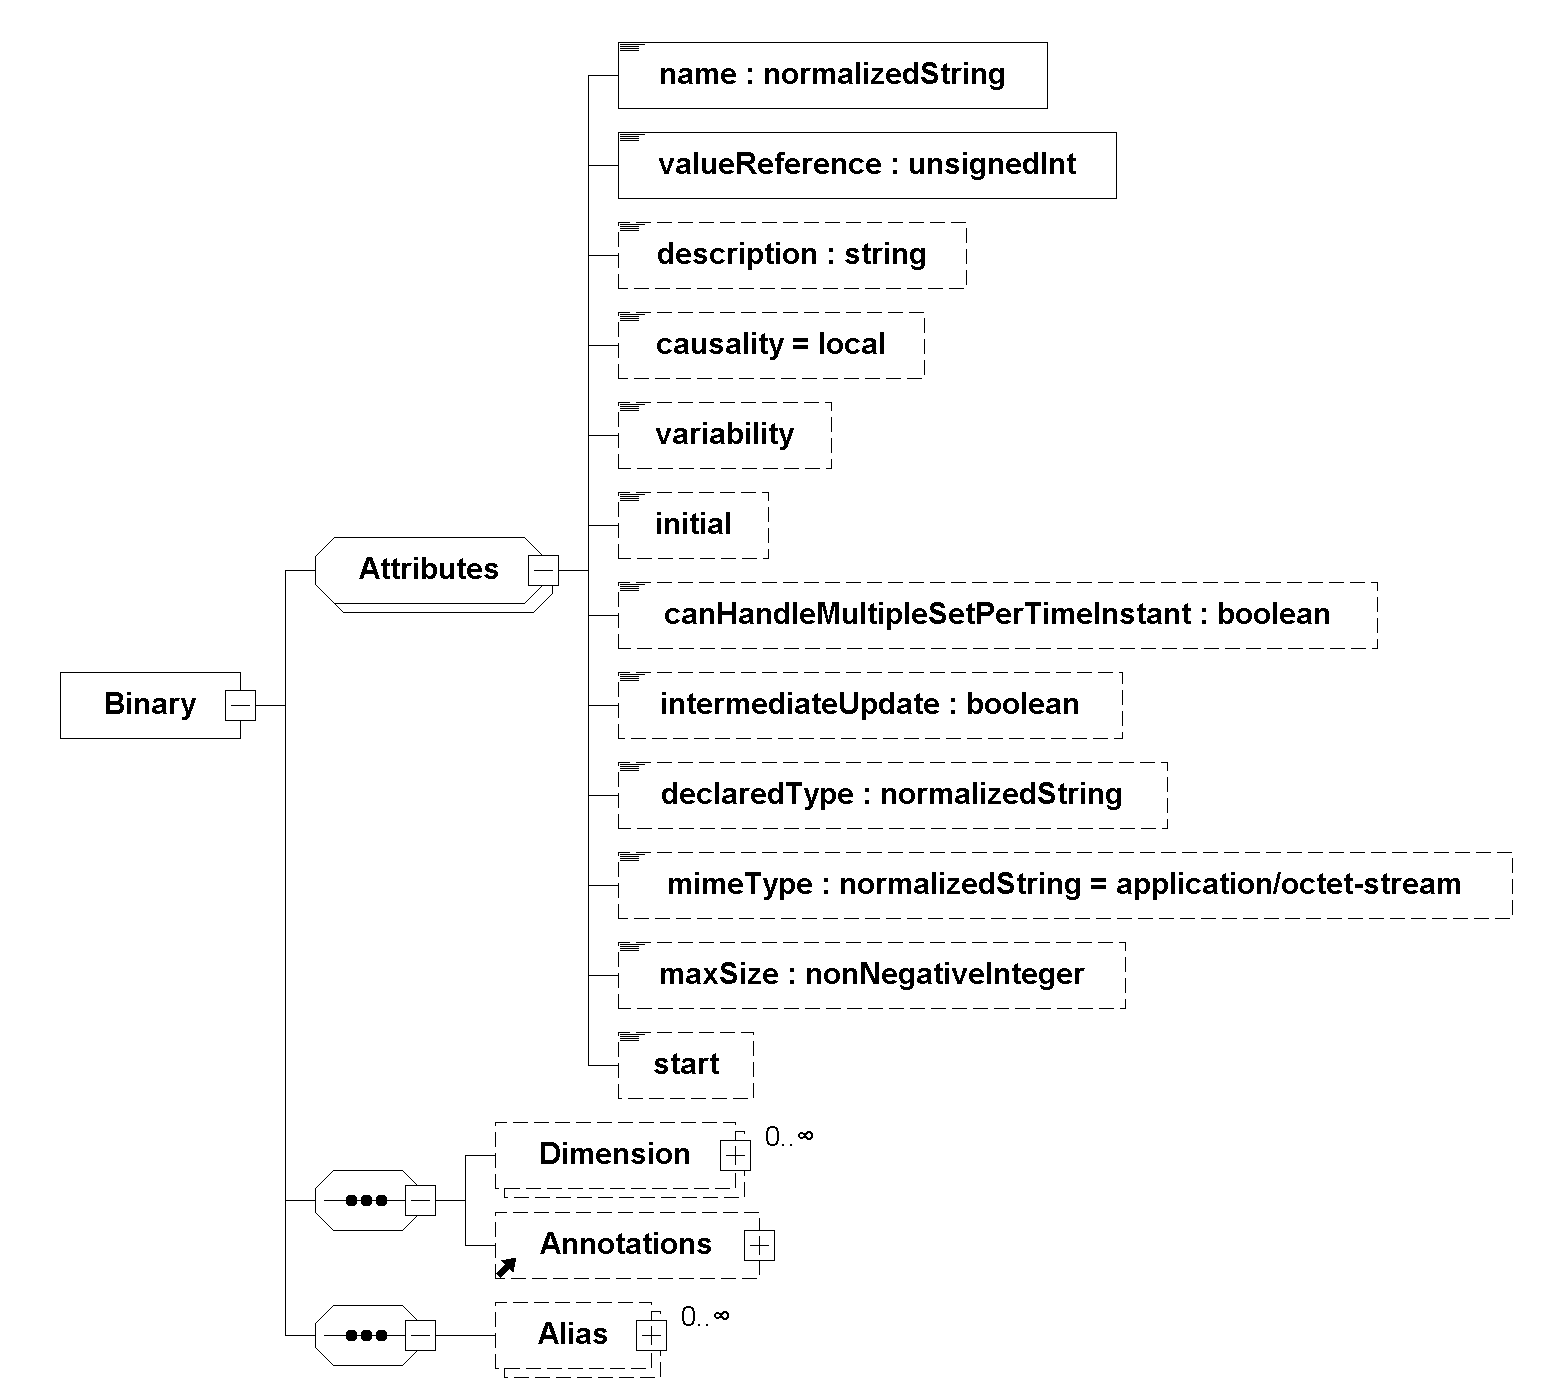
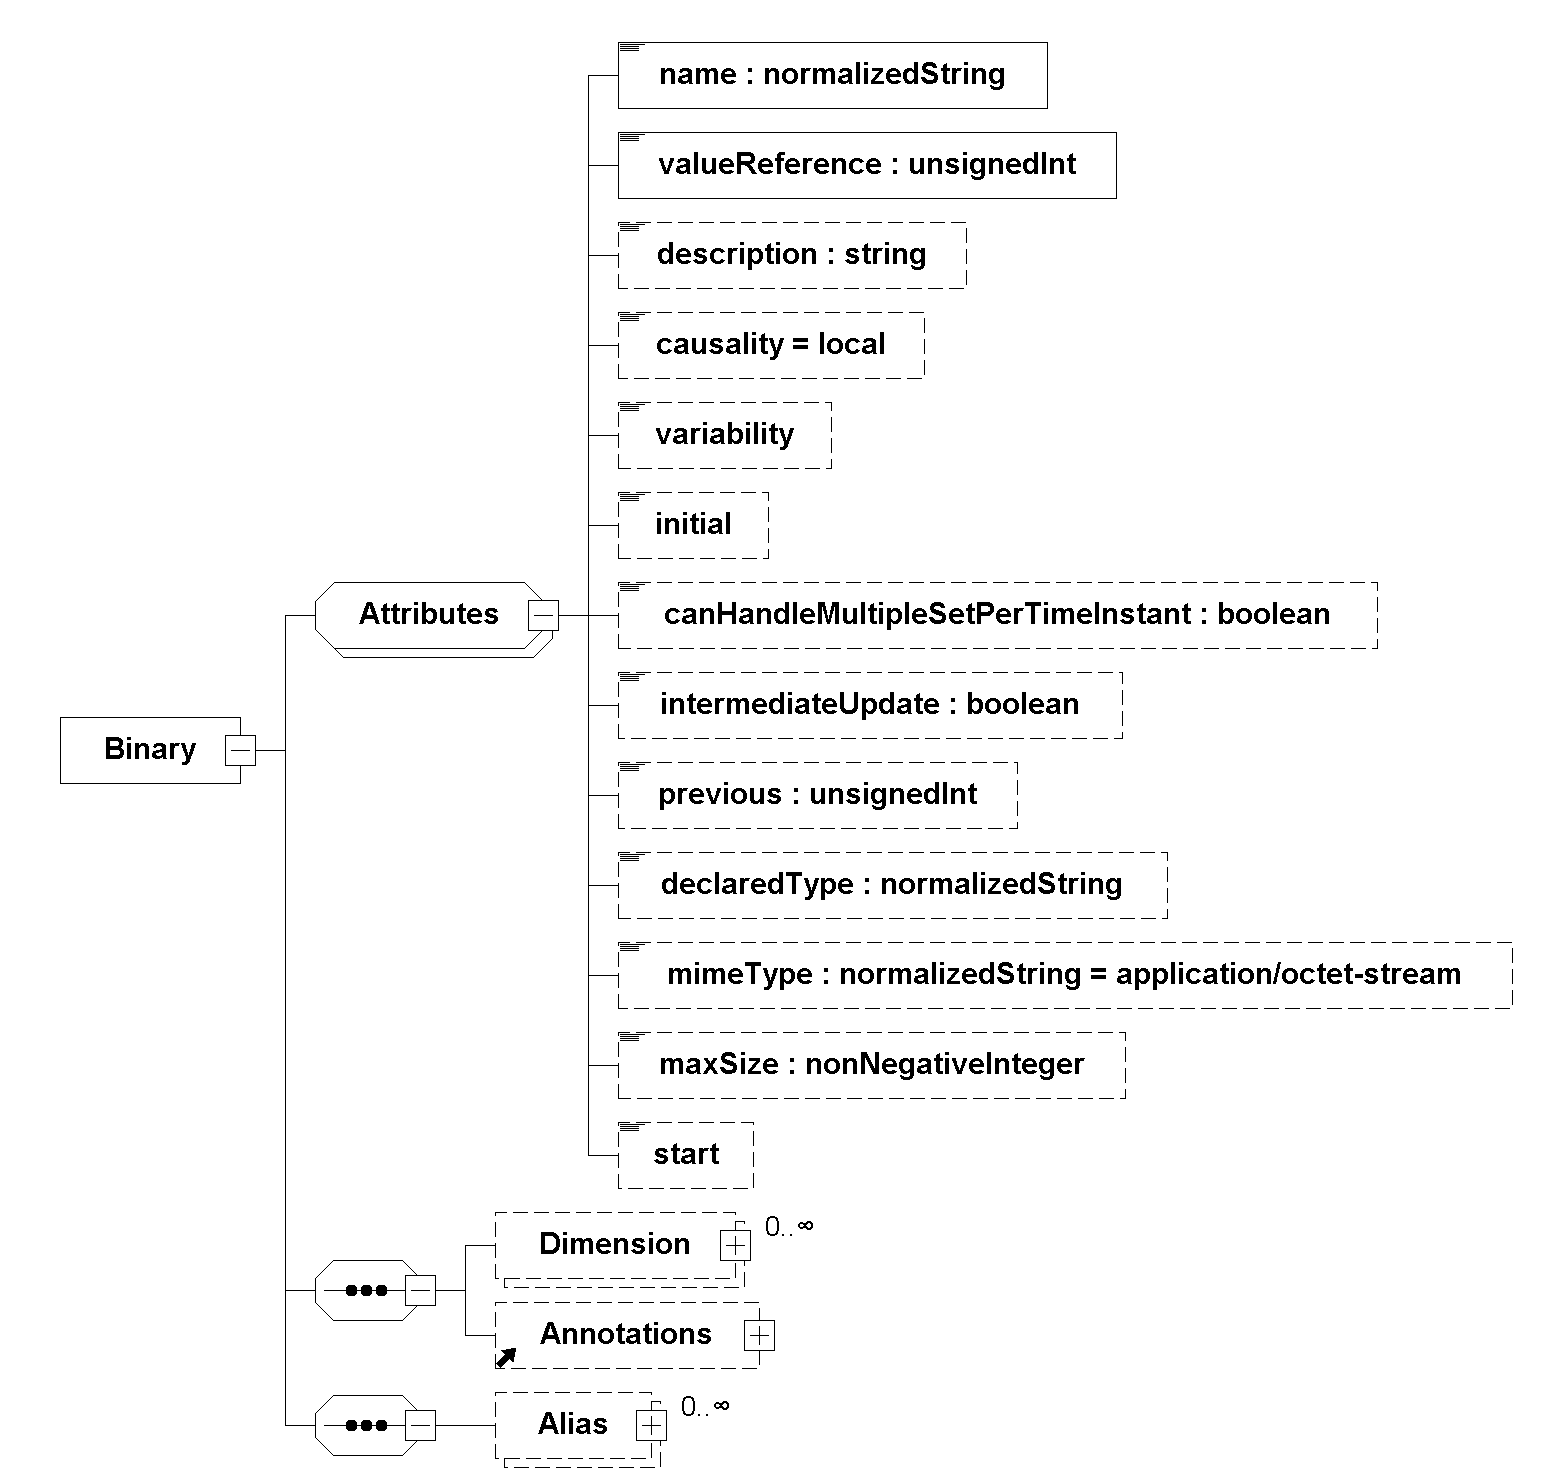
Update generated specification from fmi-standard (320a58e)

diff --git a/docs/3.0-dev/index.html b/docs/3.0-dev/index.html
@@ -6352,7 +6352,7 @@ The algebraic relationship to the <a href="#input"><code>inputs</code></a> can b
 <div class="ulist">
 <ul>
 <li>
-<p>continuous <a href="#state"><code>states</code></a> and their <a href="#StateDerivative"><code>StateDerivative</code>s</a>, <a href="#DiscreteTimeState"><code>DiscreteTimeState</code>s</a>, <a href="#EventIndicator"><code>EventIndicator</code>s</a> or <a href="#InitialUnknown"><code>InitialUnknown</code>s</a>.
+<p>continuous <a href="#state"><code>states</code></a> and their <a href="#StateDerivative"><code>StateDerivative</code>s</a>, <a href="#ClockedState"><code>ClockedState</code>s</a>, <a href="#EventIndicator"><code>EventIndicator</code>s</a> or <a href="#InitialUnknown"><code>InitialUnknown</code>s</a>.
 These variables are listed in the <code>&lt;fmiModelDescription&gt;&lt;ModelStructure&gt;</code>.<br></p>
 </li>
 <li>
@@ -6511,6 +6511,18 @@ Variables with <a href="#causality"><code>causality</code></a> <a href="#paramet
 <div class="paragraph">
 <p>This attribute is ignored in Model Exchange.
 The default value of this attribute is <code>false</code>.</p>
+</div></div></td>
+</tr>
+<tr>
+<td class="tableblock halign-left valign-top"><p class="tableblock"><code>previous</code></p></td>
+<td class="tableblock halign-left valign-top"><div class="content"><div id="previous" class="paragraph">
+<p>If present, this variable is a <a href="#ClockedState"><code>&lt;ClockedState&gt;</code></a> and this attribute is a value reference to the variable with the previous value.
+Only clocked variables (they are listed in at least one of the <a href="#clockedVariables"><code>clockedVariables</code></a> lists) may have the <a href="#previous"><code>previous</code></a> attribute.
+Only variables with <a href="#variability"><code>variability == discrete</code></a> may have a previous value.</p>
+</div>
+<div class="paragraph">
+<p><em>[For example, if <code>previous == 3</code> for variable <code>8</code>, then variable <code>3</code> is the previous value of variable <code>8</code>. See also <a href="#fmi3UpdateDiscreteStates"><code>fmi3UpdateDiscreteStates</code></a>.</em>
+<em>Note: This is reverse compared to the <a href="#derivative"><code>derivative</code></a> attribute.]</em></p>
 </div></div></td>
 </tr>
 </tbody>
@@ -7315,10 +7327,12 @@ The functional dependency is defined as (dependencies of variables that are fixe
 \({\dot{\mathbf{x}_c} := \mathbf{f}_{\mathit{der}}(\mathbf{x}_c, \mathbf{u}_c, \mathbf{u}_d, t, \mathbf{p}_{\mathit{tune}})}\)</p></td>
 </tr>
 <tr>
-<td class="tableblock halign-left valign-top"><p class="tableblock"><code>DiscreteTimeState</code></p></td>
-<td class="tableblock halign-left valign-top"><p class="tableblock"><a id="DiscreteTimeState"></a>
-XXX // TODO: Add description, see #1287 on github.<br>
-XXX // TODO: This should likely be Locals (ask ZIrina), to allow dependency definitions for modelPartitions (to input clocks) for all local variables</p></td>
+<td class="tableblock halign-left valign-top"><p class="tableblock"><code>ClockedState</code></p></td>
+<td class="tableblock halign-left valign-top"><p class="tableblock"><a id="ClockedState"></a>
+A <a href="#ClockedState"><code>&lt;ClockedState&gt;</code></a> is part of the discrete state of a model partition and represented by a <a href="#ClockElement">clocked</a> variable.
+To which clock or clocks it belongs is described in <a href="#ClockElement"><code>&lt;Clock&gt;</code></a>.
+Each <a href="#ClockedState"><code>&lt;ClockedState&gt;</code></a> must have the attribute <a href="#previous"><code>previous</code></a> to represent the previous value of this <a href="#ClockedState"><code>&lt;ClockedState&gt;</code></a>.
+All <a href="#ClockedState">clocked states</a> must have <a href="#variability"><code>variability == discrete</code></a>.</p></td>
 </tr>
 <tr>
 <td class="tableblock halign-left valign-top"><p class="tableblock"><code>InitialUnknown</code></p></td>
@@ -7350,13 +7364,21 @@ Ordered list of all event indicators, in other words, a list of value references
 <p class="tableblock">For Co-Simulation, elements <a href="#EventIndicator"><code>&lt;EventIndicator&gt;</code></a> are ignored.
 <em>[If an FMU supports both Model Exchange and Co-Simulation, then the <a href="#EventIndicator"><code>&lt;EventIndicator&gt;</code></a> elements might be present, since it is needed for Model Exchange.]</em></p></td>
 </tr>
+<tr>
+<td class="tableblock halign-left valign-top"><p class="tableblock"><code>Clock</code></p></td>
+<td class="tableblock halign-left valign-top"><p class="tableblock"><a id="ClockElement"></a>
+List of all clocks and their clocked variables.
+All variables referenced by these lists must have <a href="#variability"><code>variability == discrete</code></a>.
+A clocked variable my depend on multiple clocks and may therefore be listed in multiple <a href="#ClockElement"><code>&lt;Clock&gt;</code></a> elements.
+<em>[More rigorous importers requiring a variable to be dependent on a single clock can reject FMUs violating this restriction.]</em></p></td>
+</tr>
 </tbody>
 </table>
 <div class="paragraph">
-<p>Elements <a href="#Output"><code>&lt;Output&gt;</code></a>, <a href="#StateDerivative"><code>&lt;StateDerivative&gt;</code></a>, <a href="#DiscreteTimeState"><code>&lt;DiscreteTimeState&gt;</code></a> and <a href="#InitialUnknown"><code>&lt;InitialUnknown&gt;</code></a> have the following attributes:</p>
+<p>Elements <a href="#Output"><code>&lt;Output&gt;</code></a>, <a href="#StateDerivative"><code>&lt;StateDerivative&gt;</code></a>, <a href="#ClockedState"><code>&lt;ClockedState&gt;</code></a>, <a href="#InitialUnknown"><code>&lt;InitialUnknown&gt;</code></a>, <a href="#EventIndicator"><code>&lt;EventIndicator&gt;</code></a> and <a href="#ClockElement"><code>&lt;Clock&gt;</code></a> have (partially) the following attributes:</p>
 </div>
 <table id="table-output-der-initialUknown-details" class="tableblock frame-all grid-all stretch">
-<caption class="title">Table 25. <a href="#Output"><code>&lt;Output&gt;</code></a>, <a href="#StateDerivative"><code>&lt;StateDerivative&gt;</code></a>, <a href="#DiscreteTimeState"><code>&lt;DiscreteTimeState&gt;</code></a> and <a href="#InitialUnknown"><code>&lt;InitialUnknown&gt;</code></a> attribute details.</caption>
+<caption class="title">Table 25. <a href="#Output"><code>&lt;Output&gt;</code></a>, <a href="#StateDerivative"><code>&lt;StateDerivative&gt;</code></a>, <a href="#ClockedState"><code>&lt;ClockedState&gt;</code></a>, <a href="#InitialUnknown"><code>&lt;InitialUnknown&gt;</code></a>, <a href="#EventIndicator"><code>&lt;EventIndicator&gt;</code></a> and <a href="#ClockElement"><code>&lt;Clock&gt;</code></a> attribute details.</caption>
 <colgroup>
 <col style="width: 16.6666%;">
 <col style="width: 83.3334%;">
@@ -7406,6 +7428,11 @@ Otherwise, the corresponding known \({\mathbf{f}_{\mathit{known},i}}\) enters th
 <p class="tableblock"><code>=</code> <a href="#fixed"><code>fixed</code></a>: fixed factor, \({p \cdot \mathbf{v}_{\mathit{known},i}}\) where \({p}\) is an expression that is evaluated before <a href="#fmi3ExitInitializationMode"><code>fmi3ExitInitializationMode</code></a> is called.</p>
 <p class="tableblock"><code>=</code> <a href="#tunable"><code>tunable</code></a>: tunable factor, \({p \cdot \mathbf{v}_{\mathit{known},i}}\) where \({p}\) is an expression that is evaluated before <a href="#fmi3ExitInitializationMode"><code>fmi3ExitInitializationMode</code></a> is called and in <a href="#EventMode"><strong>Event Mode</strong></a> due to event handling (ME) or at a communication point (CS and SE)</p>
 <p class="tableblock"><code>=</code> <a href="#discrete"><code>discrete</code></a>: discrete factor, \({d \cdot \mathbf{v}_{\mathit{known},i}}\) where \({d}\) is an expression that is evaluated before <a href="#fmi3ExitInitializationMode"><code>fmi3ExitInitializationMode</code></a> is called and in <a href="#EventMode"><strong>Event Mode</strong></a> due to an external or internal event or at a communication point (CS and SE).</p></td>
+</tr>
+<tr>
+<td class="tableblock halign-left valign-top"><p class="tableblock"><code>clockedVariables</code></p></td>
+<td class="tableblock halign-left valign-top"><p class="tableblock"><a id="clockedVariables"></a>
+This element is only available with the <a href="#ClockElement"><code>&lt;Clock&gt;</code></a> element and is a list of value references indicating clocked variables depending on this clock.</p></td>
 </tr>
 </tbody>
 </table>
